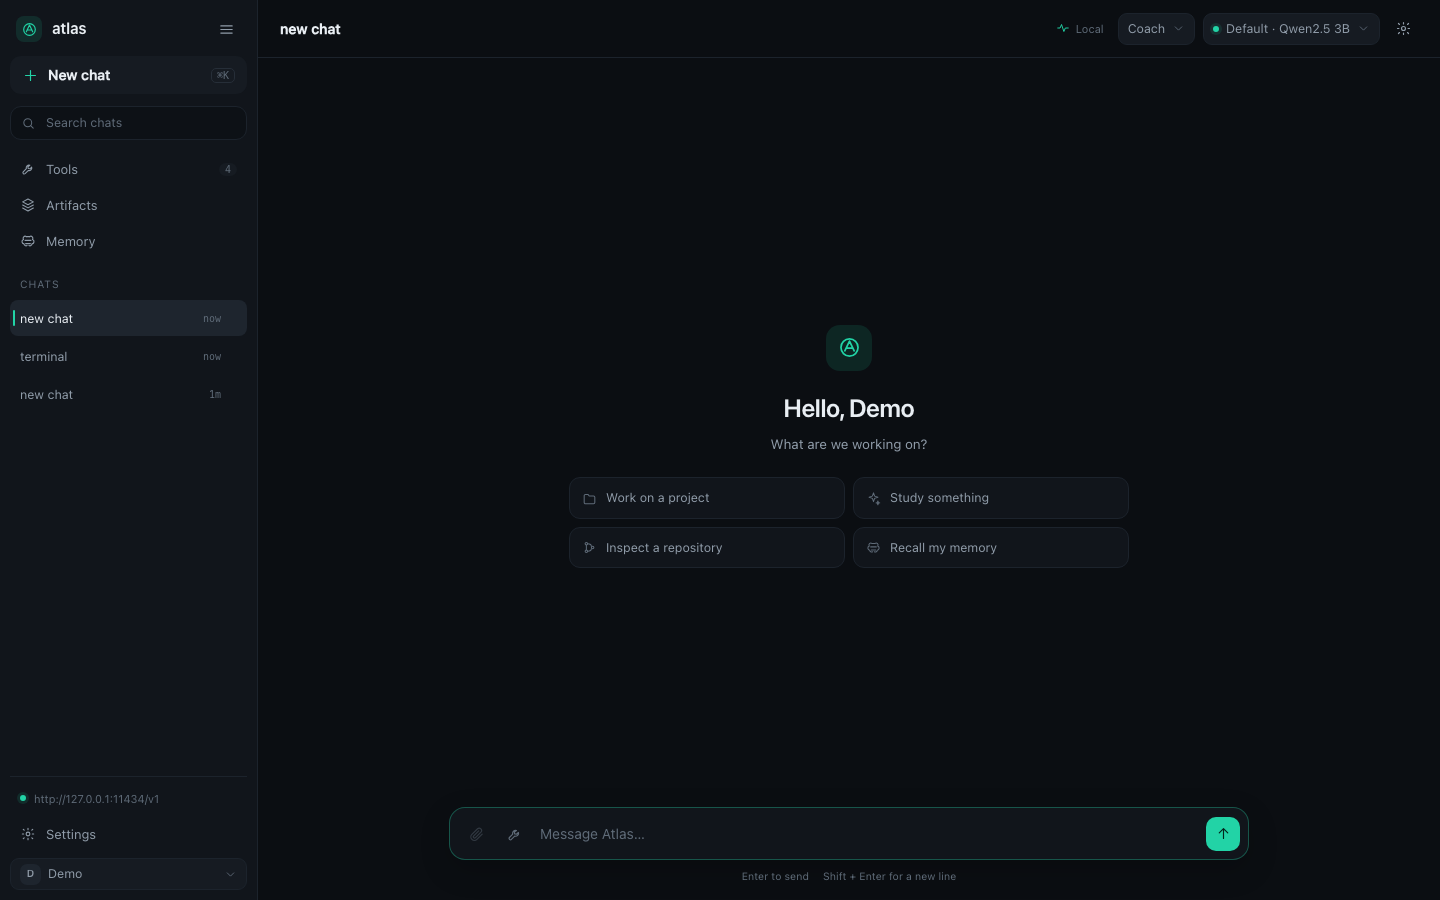
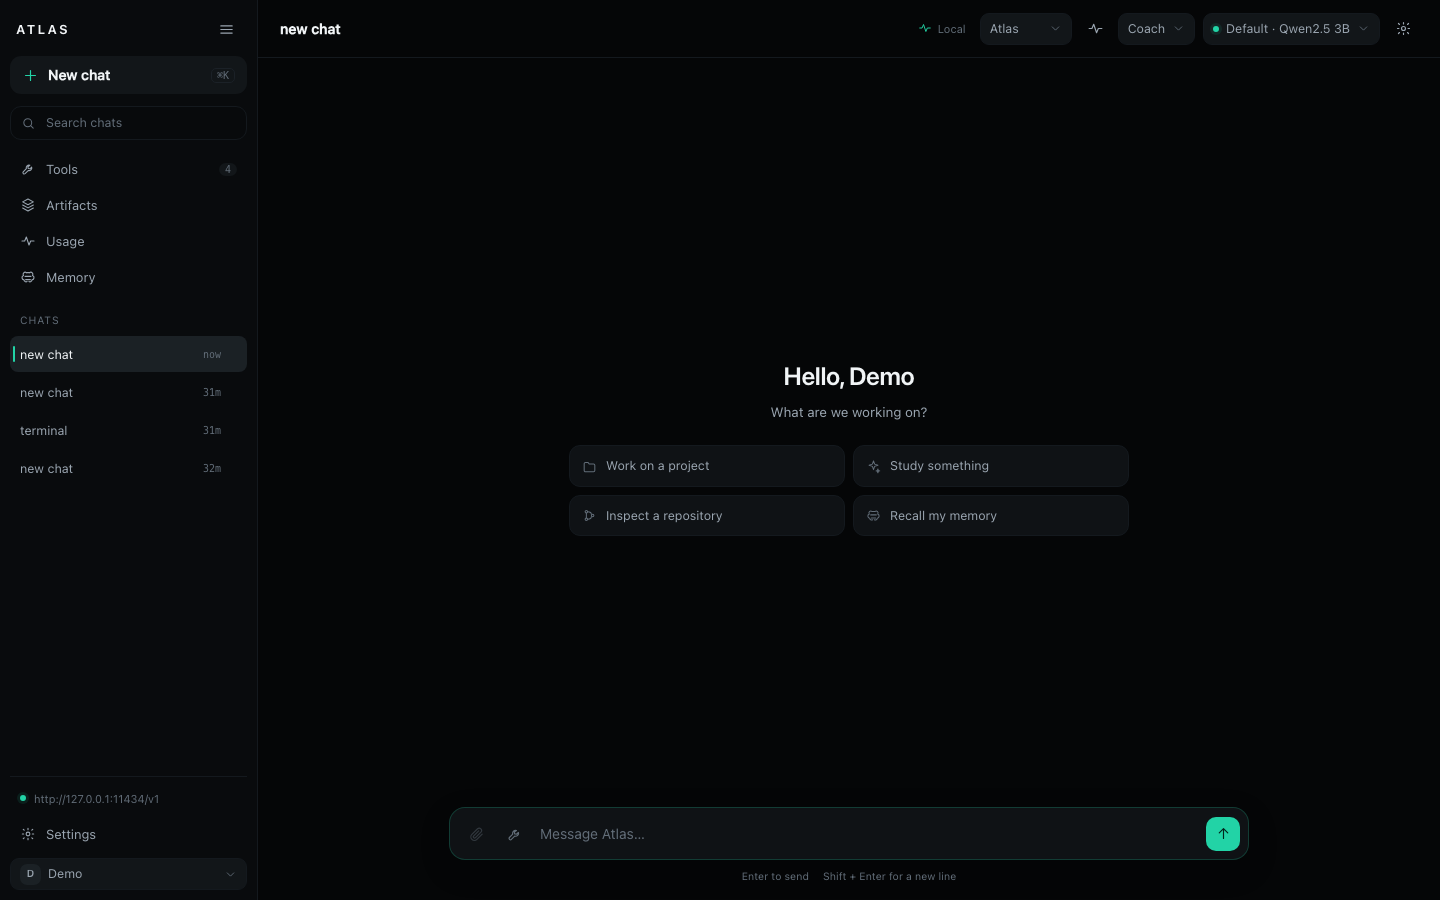
docs-002-refresh-screenshots-for-themes-and-usage
Capture the redesigned true-black UI from an empty demo profile, add Usage
and Settings screenshots, and document the theme system and Usage page.

diff --git a/README.md b/README.md
@@ -28,10 +28,13 @@ anywhere.
 
 | | | |
 |---|---|---|
-| ![Atlas chat](docs/screenshots/chat.png) | ![Tools](docs/screenshots/tools.png) | ![Memory](docs/screenshots/memory.png) |
-| Chat &amp; welcome | Tool workspace | Memory |
+| ![Atlas chat](docs/screenshots/chat.png) | ![Usage](docs/screenshots/usage.png) | ![Memory](docs/screenshots/memory.png) |
+| Near-black chat &amp; welcome | Real usage data | Plain-language memory |
 
-![Artifacts](docs/screenshots/artifacts.png)
+| | |
+|---|---|
+| ![Tools](docs/screenshots/tools.png) | ![Settings](docs/screenshots/settings.png) |
+| Tool workspace | Themes, accents, models, tools, memory |
 
 ---
 
@@ -142,8 +145,16 @@ local model status and running tools. No native dropdowns, no dashboard clutter.
 everything else as *not configured* — web search, filesystem, terminal, Git,
 image generation and MCP servers have UI surfaces ready, but are not
 implemented yet. **Artifacts** is an empty list with preview components ready
-for real files. **Memory** presents durable facts as plain statements grouped
-into About you / Preferences / Projects / Goals / Environment.
+for real files. **Usage** shows only real counts from the local API, with
+terminal-style text charts and an optional floating panel. **Memory** presents
+durable facts as plain statements grouped into About you / Preferences /
+Projects / Goals / Environment.
+
+The default theme is near-black with a small cyan accent. Settings offers
+Atlas (cyan), Midnight (deep blue), Mono (white/gray) and Forest (muted green),
+plus a custom accent. Themes change backgrounds, surfaces, borders and text,
+not just the accent color. Everything is stored in the browser's local
+storage — no account, no sync.
 
 ---
 
